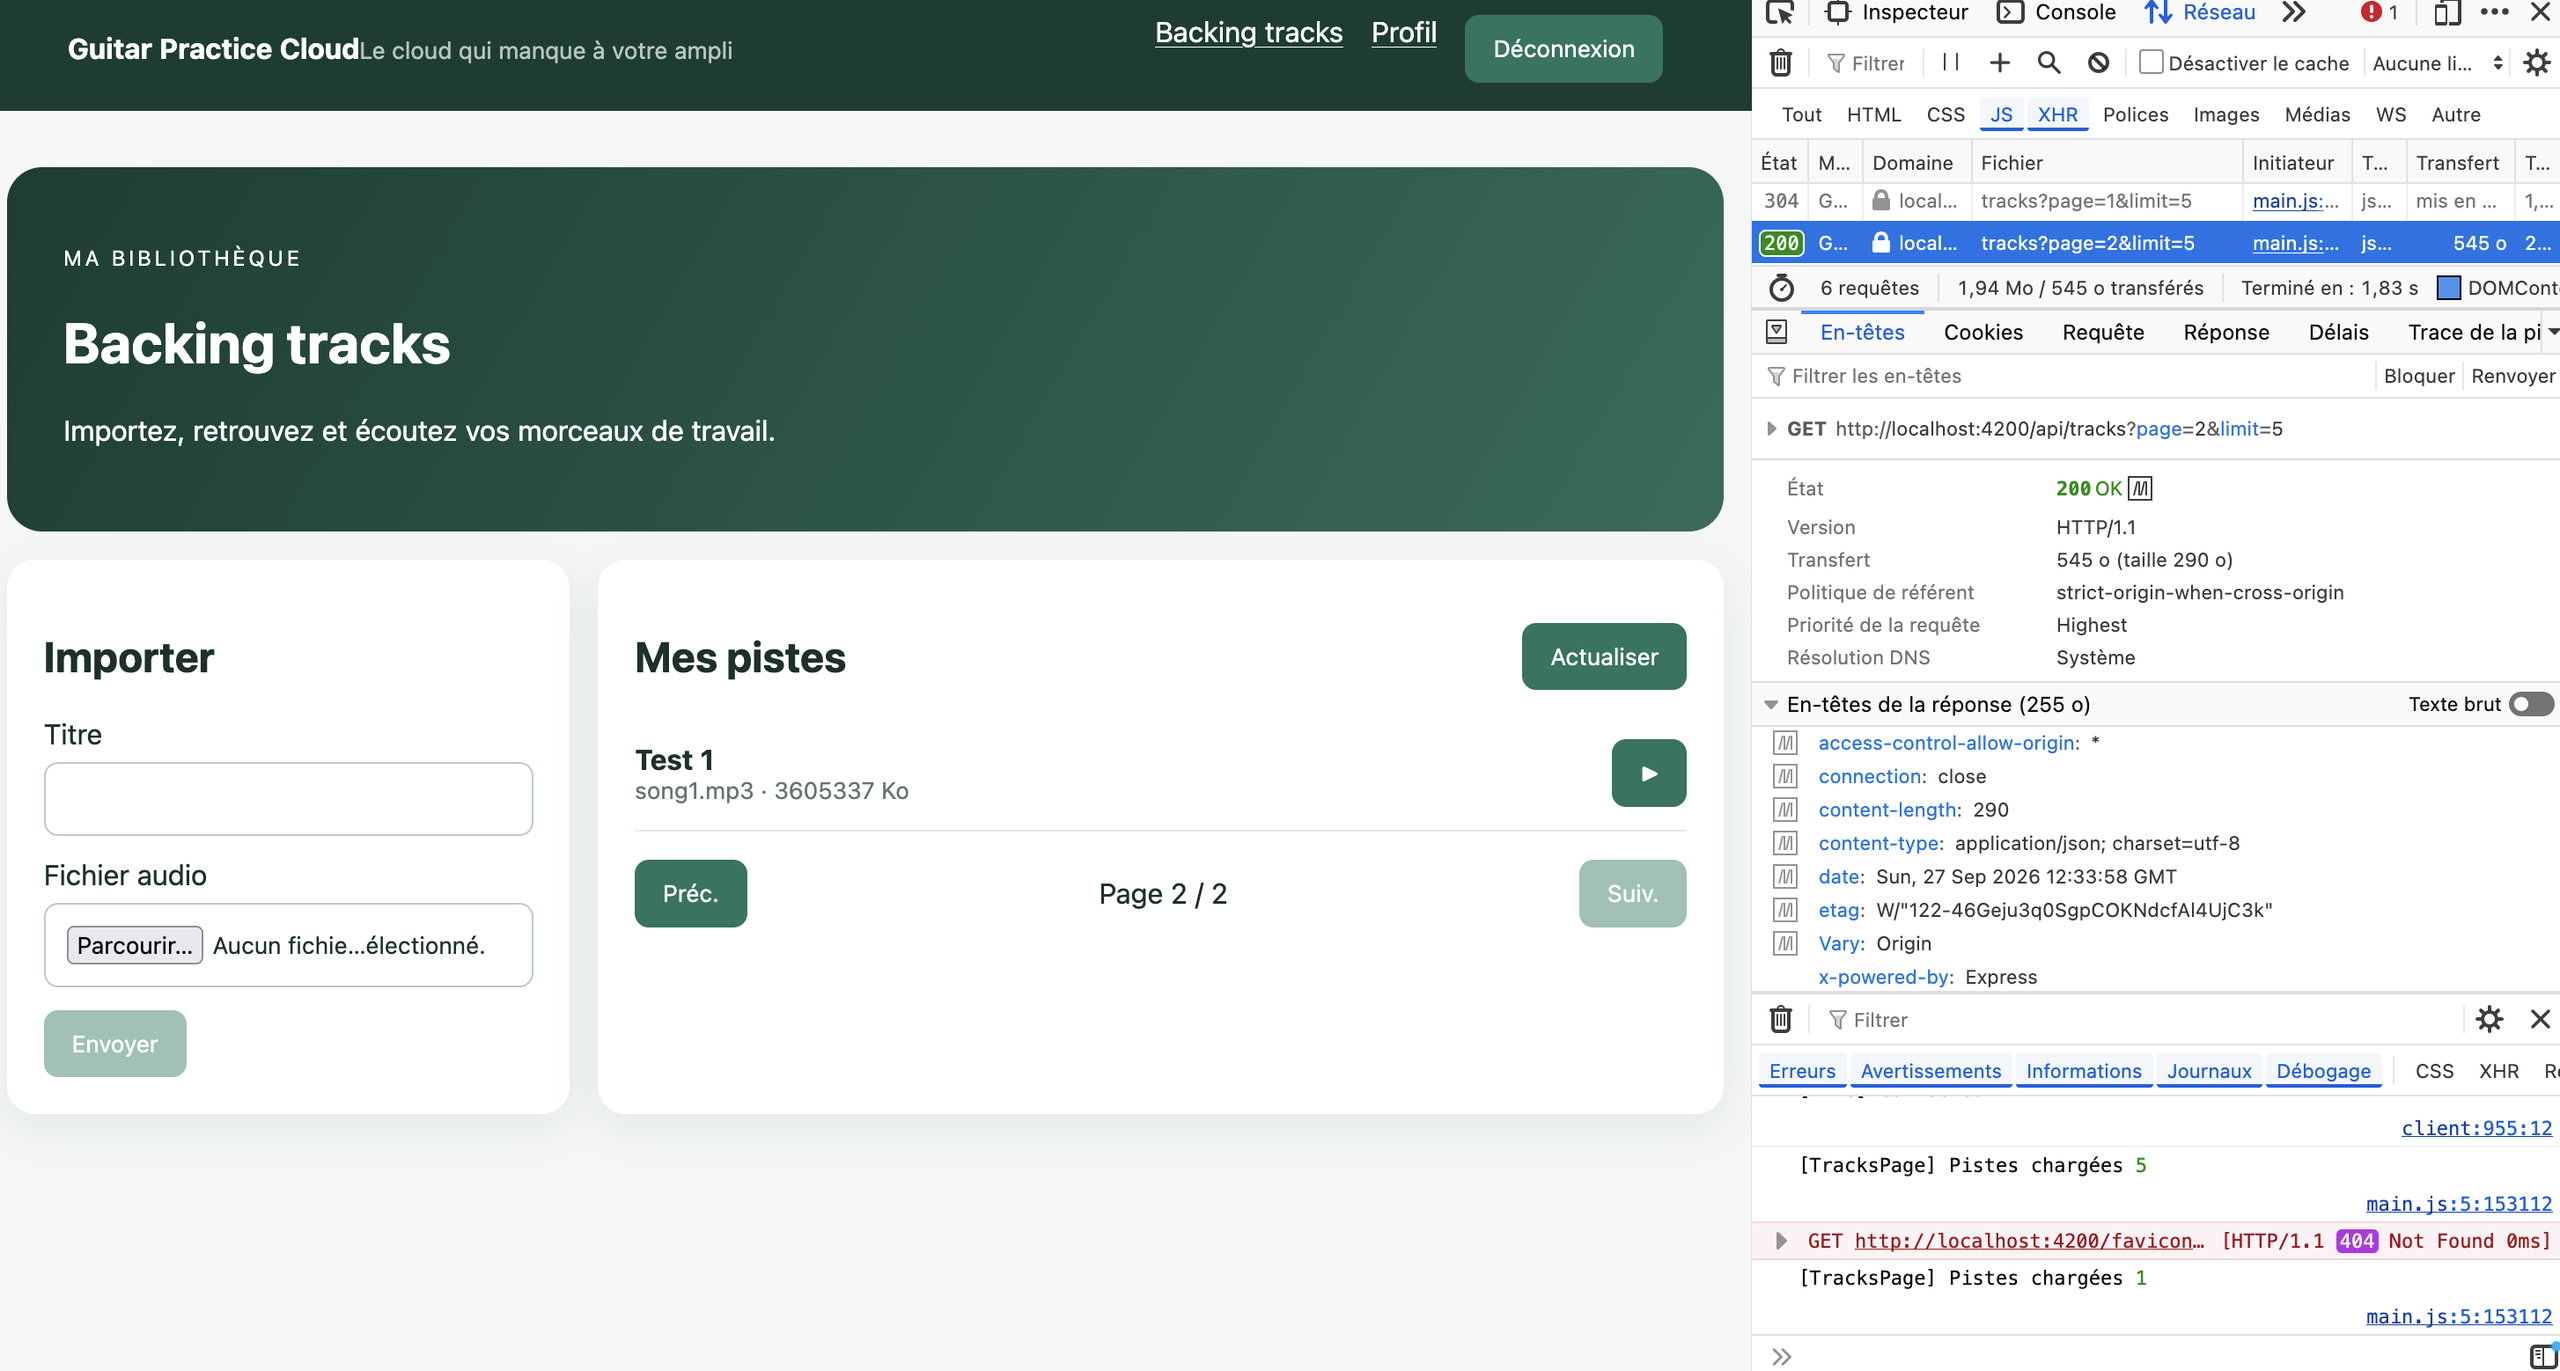
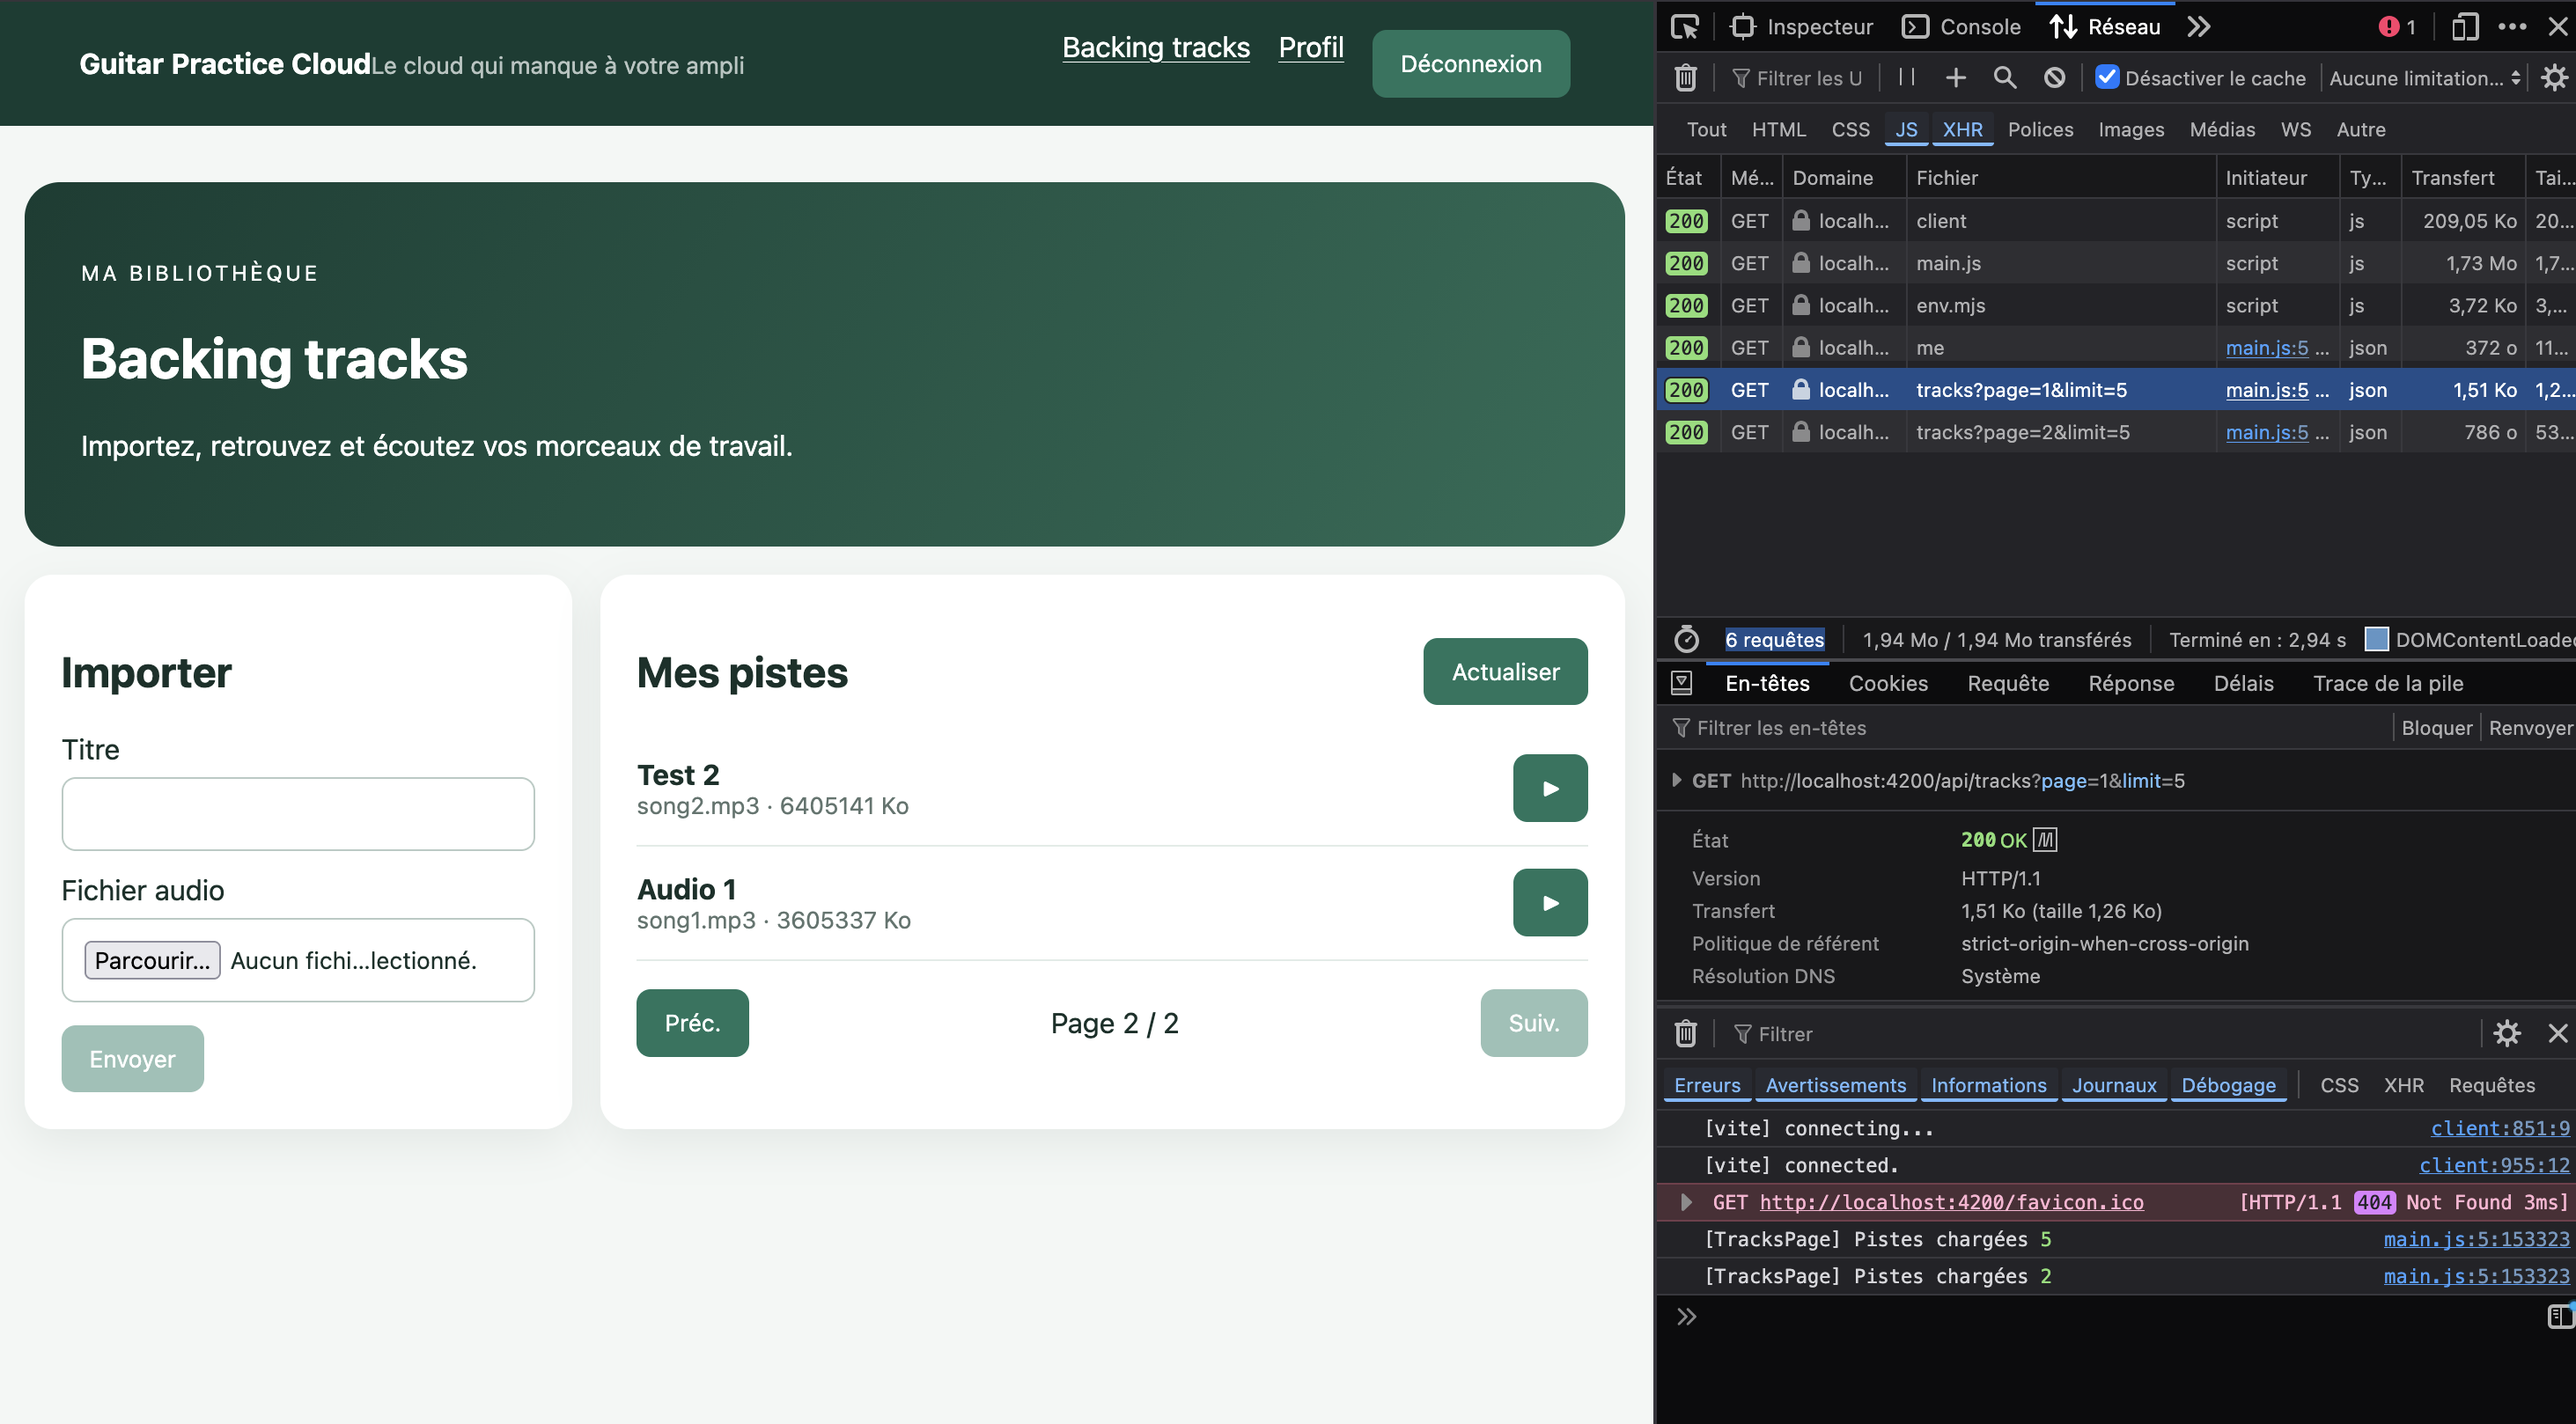
code analysis and authenticated playback capture

diff --git a/TP2.md b/TP2.md
@@ -1,0 +1,76 @@
+# TP2 — Bibliothèque, upload et lecture audio 
+
+DOUGHANE Saadeddine & EL DADA Acile 
+
+
+## Captures d'écrans
+
+#### Pagination :
+![Pagination page 2](docs/pagination-page2.png)
+
+#### Lecture audio avec authentification  : 
+![Lecture audio](docs/lecture-audio.png)
+
+Pour écouter une piste, il faut être connecté et que la piste nous appartienne. Sur la capture, on voit que la requête `GET /api/tracks/:id/audio` envoie notre JWT dans le header `Authorization`, et que le serveur répond 200 avec un fichier `audio/mpeg`.
+
+Côté backend, la piste est cherchée avec notre id comme propriétaire :
+```js
+Track.findOne({ _id: req.params.id, ownerId: req.auth.sub })
+```
+Sans token, le serveur répond 401. Et si la piste appartient à quelqu'un d'autre, il répond 404.
+
+## 1. Où se trouve quoi dans le code
+
+Tout se passe dans `tracks-page.ts`, `tracks-page.html` et `track.service.ts` :
+- choix du fichier : `choose()` dans le composant 
+- FormData et appel d'upload : `upload()` dans le service
+- récupération du Blob : `audio()` dans le service (`responseType: 'blob'`)
+- préparation de la lecture (création de l'ObjectURL, envoi au lecteur, libération de l'ancienne) : `play()` dans le composant.
+
+Le FormData contient bien `audio` et `title`.
+
+```ts
+// track.service.ts
+const body = new FormData();
+body.append('audio', file);
+body.append('title', title);
+```
+
+## 2. Flux d'upload et de lecture
+
+**Upload :** le composant appelle le service, qui met le fichier et le titre dans un FormData et l'envoie avec `HttpClient` en `POST /api/tracks`.
+
+**Lecture :** au clic sur le bouton play, le service télécharge tout le fichier sous forme de Blob. Ensuite, `URL.createObjectURL()` crée une adresse locale que l'on donne au lecteur `<audio>`.
+
+```ts
+// tracks-page.ts, méthode play()
+const previousUrl = this.audioUrl();
+if (previousUrl) URL.revokeObjectURL(previousUrl);
+this.audioUrl.set(URL.createObjectURL(blob));
+```
+
+## 3. Intercepteur JWT
+
+L'intercepteur (`auth.interceptor.ts`, activé dans `main.ts`) ajoute `Authorization: Bearer <token>` à chaque requête de `HttpClient`.
+
+```ts
+// auth.interceptor.ts
+request.clone({
+  setHeaders: { Authorization: `Bearer ${token}` },
+})
+```
+
+Si l'on mettait directement l'URL de l'API dans `<audio src>`, c'est le navigateur qui ferait la requête, pas Angular. L'intercepteur ne passerait pas, le token ne serait pas envoyé, et le serveur répondrait 401.
+
+## 4. Contrôles côté backend
+
+Dans `backend/src/app.js`, Multer vérifie que le fichier est bien dans le champ `audio`, que c'est un format audio autorisé (mp3, wav, ogg, m4a) et qu'il fait moins de 25 Mo. Sinon, le serveur renvoie une erreur 400. Le titre est lu dans `req.body.title`.
+
+```js
+// backend/src/app.js
+const MAX_FILE_SIZE = 25 * 1024 * 1024;
+app.post("/api/tracks", auth, upload.single("audio"), ...)
+```
+
+Les fichiers sont stockés sur le disque (`data/uploads/`), et MongoDB ne garde que leurs infos.
+
